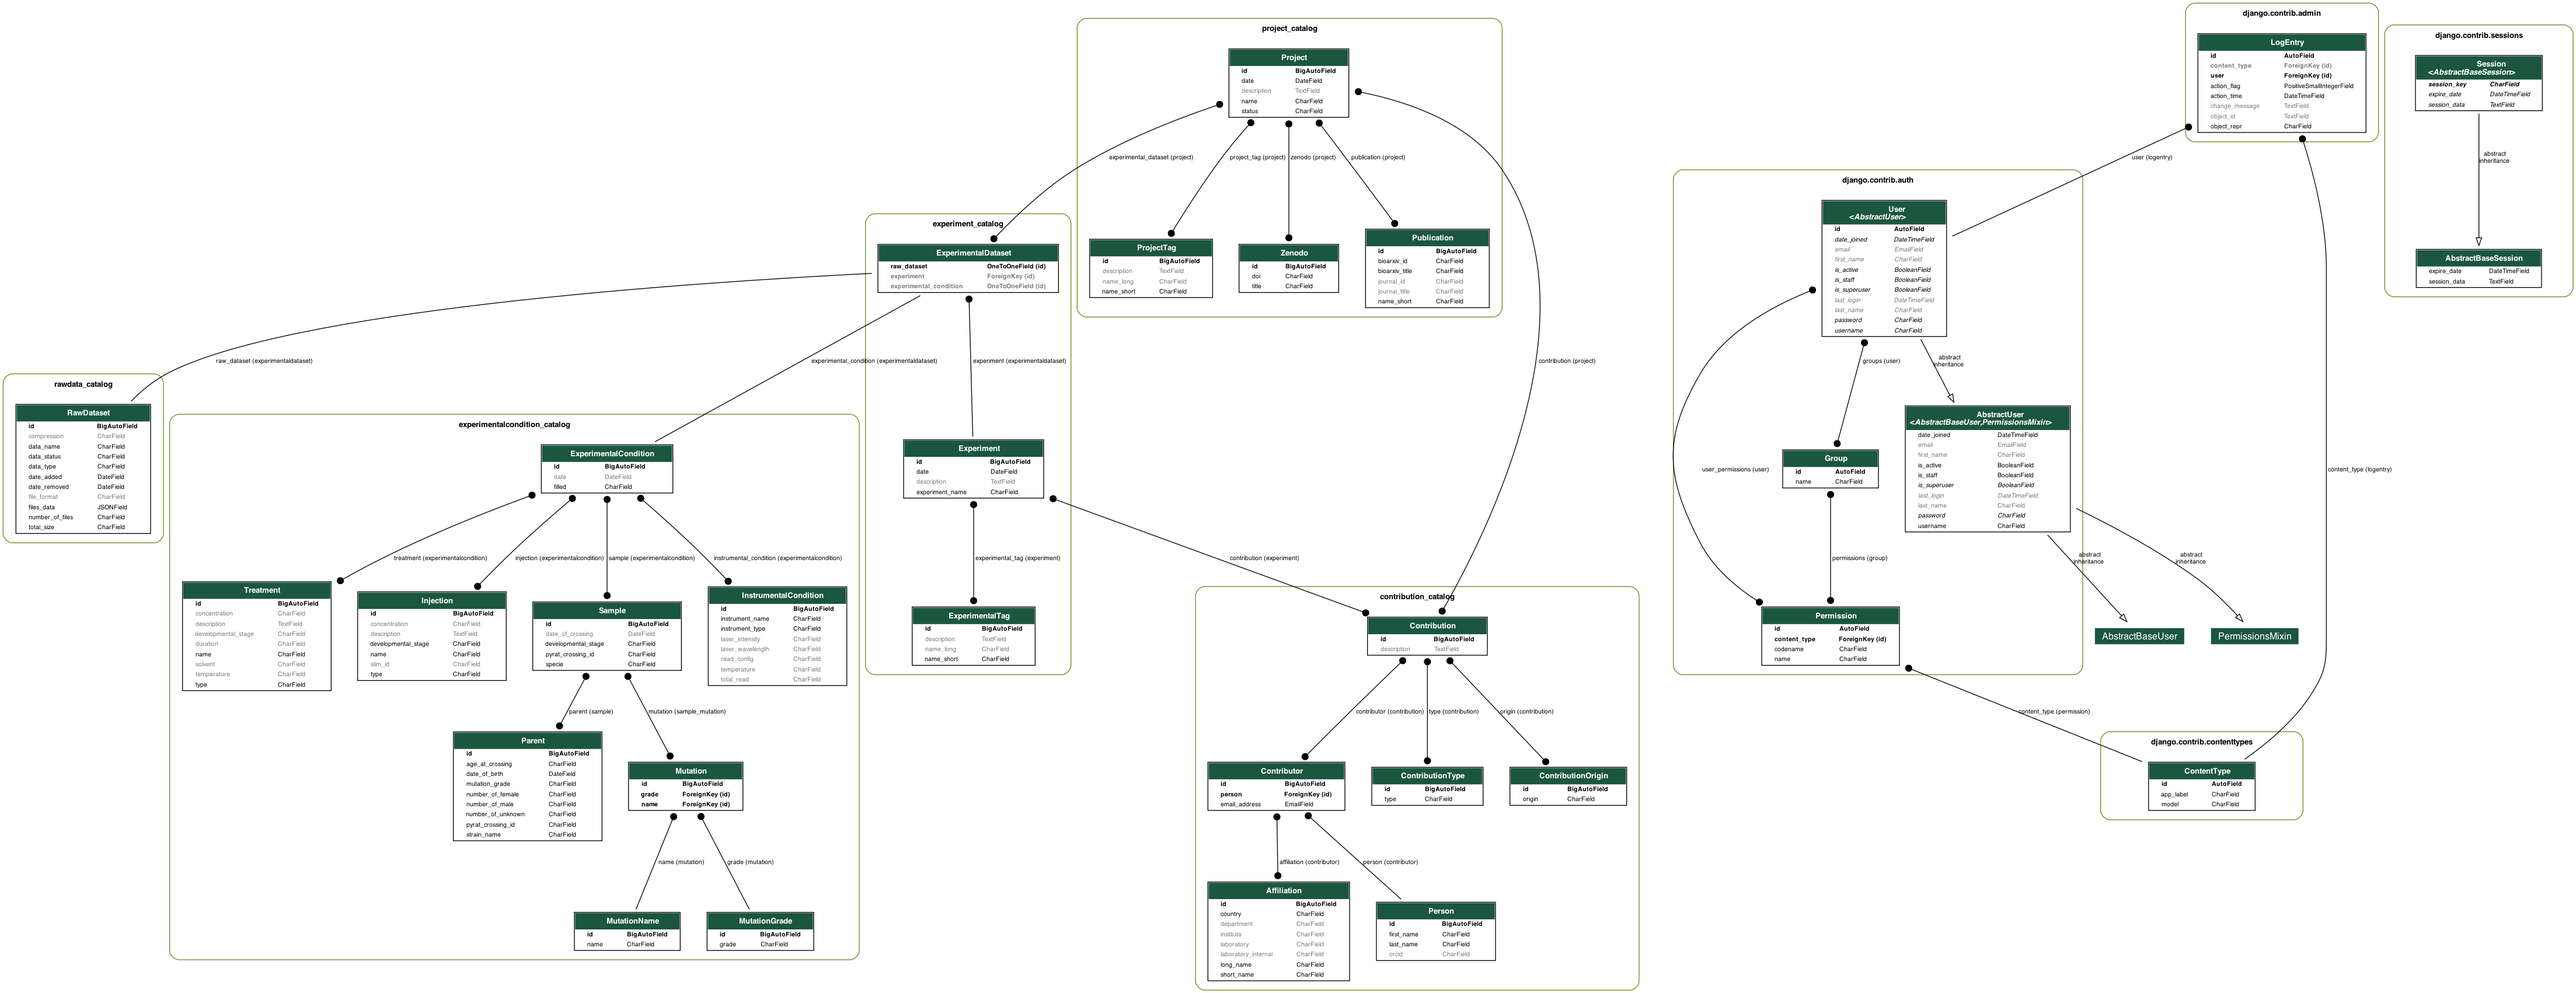
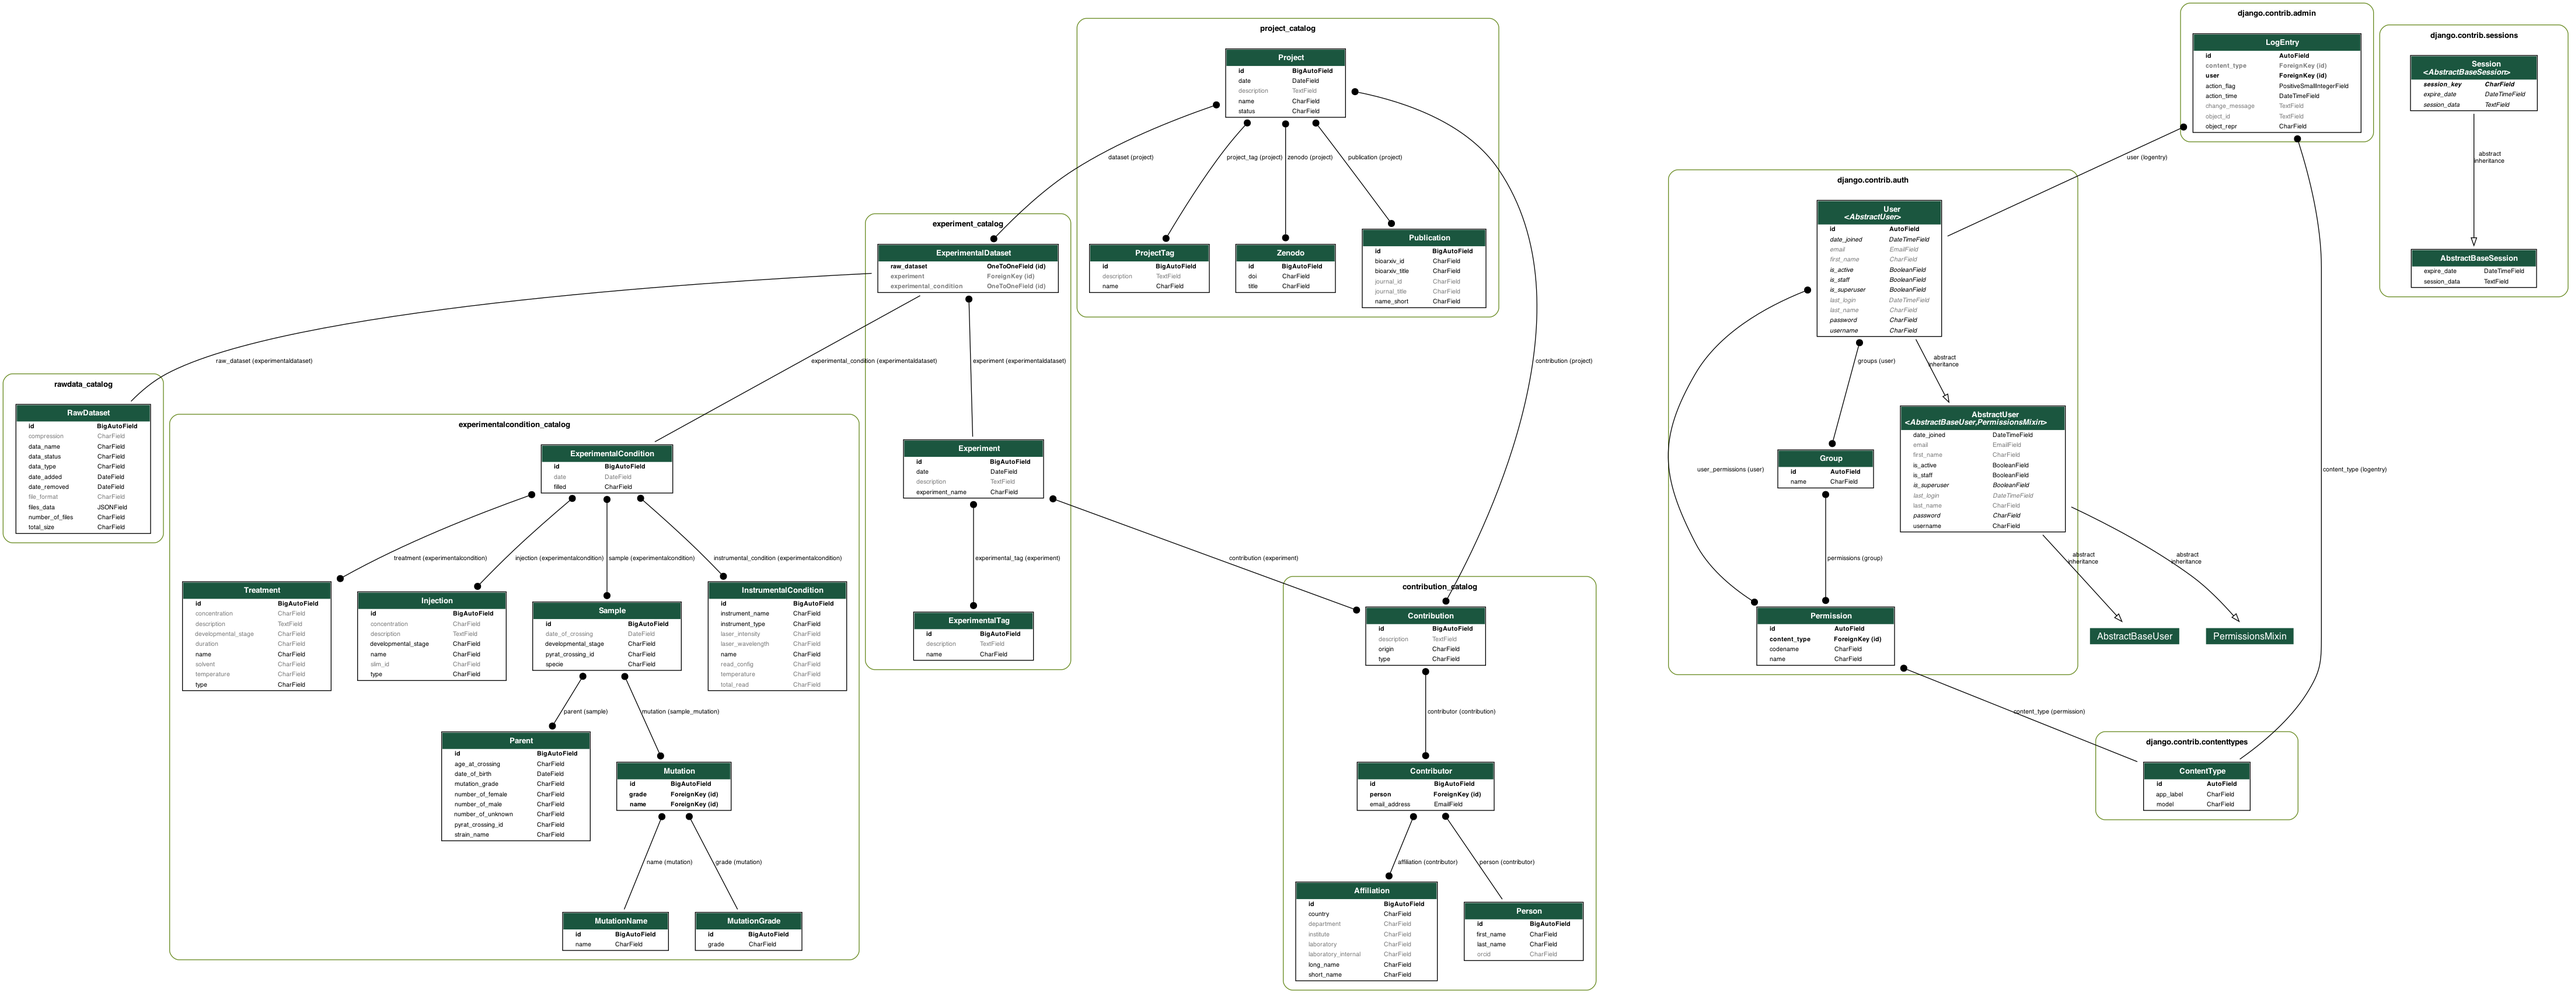
chnage rawdata

diff --git a/templates/project_catalog/project_detail.html b/templates/project_catalog/project_detail.html
@@ -26,7 +26,6 @@
         <strong>contributor: </strong>{{cont.contributor.all|join:", "}} <br/>
         <strong>type: </strong>{{cont.type}} <br/>
         <strong>origin: </strong>{{cont.origin}} <br/>
-        <strong>level: </strong>{{cont.level}} <br/>
         <strong>description: </strong> {{cont.description}} <br/> 
         {% if forloop.counter != experiment.contribution.all|length %} 
             <br/>
@@ -39,19 +38,20 @@
 </div>
 
 <hr>
-
-<h4>RawDataset</h4>
+<h4>RawDataset/Experiment</h4>
 <div style="margin-left:20px;margin-top:0px">
 
 {% for rds in project.dataset.all %}
-<strong>{{forloop.counter}}</strong>  <a href="{{ rds.raw_dataset.get_absolute_url }}">
-  {{ rds.raw_dataset }}</a> <br>
+<strong>{{forloop.counter}}</strong>  RawDataset: <a href="{{ rds.raw_dataset.get_absolute_url }}"> {{ rds.raw_dataset }}</a>  Experiment: <a href="{{ rds.experiment.get_absolute_url }}"> {{ rds.experiment }}</a><br>
+
+ 
+
 {% endfor %}
 </div>
 
 
 
-{% endblock %}
 
+{% endblock %}
 
 

diff --git a/templates/rawdata_catalog/rawdataset_detail.html b/templates/rawdata_catalog/rawdataset_detail.html
@@ -139,16 +139,21 @@
         <strong>Compression:</strong> {{rawdataset.compression}}</br>
     {% endif %}
 
-    <strong>File list</strong>
+    <strong>Raw files list</strong>
 </div>
 
-
-
-
-
-{% for file in rawdataset.files_data.files   %}
+{% for file in rawdataset.raw_files.files   %}
     <div style="margin-left:60px;margin-top:0px">
         <strong>{{ forloop.counter }}{{": "}}</strong>{{file.name}} {{", "}} {{file.size|divide:1000000000  |floatformat:4 }} {{" GB"}}</br>
+    </div>
+{% endfor %}
+
+<div style="margin-left:40px;margin-top:1px">
+    <strong>Other files list</strong>
+</div>
+{% for file in rawdataset.other_files.files   %}
+    <div style="margin-left:60px;margin-top:0px">
+        <strong>{{ forloop.counter }}{{": "}}</strong>{{file.name}} {{", "}} {{file.size|divide:1000000  |floatformat:4 }} {{" MB"}}</br>
     </div>
 {% endfor %}
 

diff --git a/templates/experiment_catalog/experiment_detail.html b/templates/experiment_catalog/experiment_detail.html
@@ -16,7 +16,6 @@
           <strong>contributor: </strong>{{cont.contributor.all|join:", "}} <br/>
           <strong>type: </strong>{{cont.type}} <br/>
           <strong>origin: </strong>{{cont.origin}} <br/>
-          <strong>level: </strong>{{cont.level}} <br/>
           <strong>description: </strong> {{cont.description}} <br/> 
           {% if forloop.counter != experiment.contribution.all|length %} 
               <br/>

diff --git a/rawdata_catalog/views.py b/rawdata_catalog/views.py
@@ -25,7 +25,7 @@ from requests.auth import HTTPBasicAuth
 import accesskeys as accessk
 
 # Create your views here.
-
+DEBUG=False
 #___________________________________________________________________________________________
 def add_mutations(): 
     mutation_name = [
@@ -130,8 +130,6 @@ def add_mutations():
         list_grades_uid.append(grade)
         print('adding mutation grade ',grade)
 
-
-
 #___________________________________________________________________________________________
 def fill_parents():
     
@@ -151,20 +149,20 @@ def fill_parents():
     list_parent_pyrat = [entry for entry in parents] 
     list_parent_pyrat_uid = [e["pyrat_crossing_id"] for e in list_parent_pyrat]
 
-    print('---------------------------pyrat uid ',list_pyrat_uid)
-    print('---------------------------pyrat parent uid ',list_parent_pyrat_uid)
+    if DEBUG: print('---------------------------pyrat uid ',list_pyrat_uid)
+    if DEBUG: print('---------------------------pyrat parent uid ',list_parent_pyrat_uid)
     for xid in list_pyrat_uid:
 
 
-        print('========------------------==================, ',xid)
+        if DEBUG: print('========------------------==================, ',xid)
         if xid in list_parent_pyrat_uid: continue
 
         query = {'tk':['strain_id', 'strain_name', 'strain_name_id','strain_name_with_id','mutations','date_of_birth'],'crossing_id':'{}'.format(str(xid))}
-        print(query)
+        if DEBUG: print(query)
         response = requests.get(api_url_crossings, auth=auth, params=query )
-        print(response)
+        if DEBUG: print(response)
         response_json = response.json()
-        print(response_json)
+        if DEBUG: print(response_json)
 
         sample_with_date = Sample.objects.get(pyrat_crossing_id=xid)
         if sample_with_date.date_of_crossing == '' or sample_with_date.date_of_crossing == None:
@@ -175,15 +173,15 @@ def fill_parents():
   
             d1 = datetime.datetime.strptime(response_json[0]['date_of_record'], "%Y-%m-%d")
             d2 = datetime.datetime.strptime(p["date_of_birth"], "%Y-%m-%d")
-            print('[rewewwerwerwerfwdfegjfhgjuafhgjdafjdk;zjkdjaf;jeakfjEKAfjkeAJf;ieAJfejwfkjZI]      ',d2-d1)
+            if DEBUG: print('[rewewwerwerwerfwdfegjfhgjuafhgjdafjdk;zjkdjaf;jeakfjEKAfjkeAJf;ieAJfejwfkjZI]      ',d2-d1)
             delta = d1 - d2
             
             mutation = ''
-            print('mutation         ----------------------  ',p["mutations"])
+            if DEBUG: print('mutation         ----------------------  ',p["mutations"])
             for m in p["mutations"]:
                 if mutation!='':mutation+=", "
                 mutation+="("+m["mutation_name"]+","+m["mutation_grade_name"]+")"
-            print('mutations        ',mutation)
+            if DEBUG: print('mutations        ',mutation)
             parent = Parent(number_of_male=str(p["number_of_male"]),
                             number_of_female=p["number_of_female"],
                             number_of_unknown=p["number_of_unknown"],
@@ -233,12 +231,11 @@ def index(request):
                  'num_visits': num_visits},
     )
 
-
 #___________________________________________________________________________________________
 def rawdataset_catalog(request):
 
-    print('The visualisation request method is:', request.method)
-    print('The visualisation POST data is:     ', request.POST)
+    if DEBUG: print('The visualisation request method is:', request.method)
+    if DEBUG: print('The visualisation POST data is:     ', request.POST)
 
     #TO BE DONE ONCE AT THE BEGINING
     if 'reload_pyrat' in request.POST:
@@ -246,8 +243,8 @@ def rawdataset_catalog(request):
     if 'reload_mutation' in request.POST:
         add_mutations()
     result = RawDataset.objects.values()
-    print(RawDataset.objects)
-    print('-------------------------------------------',result)
+    if DEBUG: print(RawDataset.objects)
+    if DEBUG: print('-------------------------------------------',result)
     list_result = [entry for entry in result] 
     list_uid=[os.path.join(e["data_type"], e["data_name"]) for e in list_result]
 
@@ -287,12 +284,12 @@ def rawdataset_catalog(request):
                 for f in value["data"]["raw_files"]:
                     tot_size+=int(f["size"])
                 rawds = RawDataset(data_type=os.path.split(newkey)[0], data_name=os.path.split(newkey)[-1], data_status="available",
-                                  number_of_files=n_files, total_size=tot_size,files_data={'files':value["data"]["raw_files"]},
+                                  number_of_files=n_files, total_size=tot_size,raw_files={'files':value["data"]["raw_files"]}, other_files={'other_files':value["data"]["other_files"]},
                                   date_added=value["date"])
                 rawds.save()
 
                 expcond = ExperimentalCondition()
-                print(expcond)
+                if DEBUG: print(expcond)
                 expcond.save()
                 expds = ExperimentalDataset(raw_dataset=rawds, experimental_condition=expcond)
                 expds.save()
@@ -329,13 +326,13 @@ def rawdataset_catalog(request):
                 if m.grade.grade not in search_dict['grade']:
                     search_dict['grade'].append(m.grade.grade)
         for a in d.instrumental_condition.all():
-            print('a-------------- ',a)
+            if DEBUG: print('a-------------- ',a)
             if a.instrument_type not in search_dict["instrument_type"]:
                 search_dict["instrument_type"].append(a.instrument_type)
             if a.instrument_name not in search_dict["instrument_name"]:
                 search_dict["instrument_name"].append(a.instrument_name)
 
-    print('------------------------------------------------  search dict  ',search_dict)
+    if DEBUG: print('------------------------------------------------  search dict  ',search_dict)
     model_data = RawDataset.objects.all()
 
     if request.method=="POST":
@@ -346,7 +343,7 @@ def rawdataset_catalog(request):
         search_devstage=request.POST.get('search_devstage')
         if search_devstage != None:
             model_data = model_data.filter(experimentaldataset__experimental_condition__sample__developmental_stage=search_devstage)
-            print(search_devstage)
+
         search_mutation=request.POST.get('search_mutation')
         if search_mutation != None:
             model_data = model_data.filter(experimentaldataset__experimental_condition__sample__mutation__name__name=search_mutation)
@@ -354,6 +351,7 @@ def rawdataset_catalog(request):
         search_grade=request.POST.get('search_grade')
         if search_grade != None:
             model_data = model_data.filter(experimentaldataset__experimental_condition__sample__mutation__grade__grade=search_grade)
+            model_data=model_data.distinct()
 
         search_instrument_type=request.POST.get('search_instrument_type')
         if search_instrument_type != None:
@@ -363,7 +361,7 @@ def rawdataset_catalog(request):
         if search_instrument_name != None:
             model_data = model_data.filter(experimentaldataset__experimental_condition__instrumental_condition__instrument_name=search_instrument_name)
 
-    print('================================',model_data)
+    print('=this one===============================',model_data)
 
     model_values = model_data.values()
     model_list = [entry for entry in model_values] 

diff --git a/rawdata_catalog/models.py b/rawdata_catalog/models.py
@@ -39,7 +39,8 @@ class RawDataset(models.Model):
     data_status     = models.CharField(max_length=100, choices=DATA_STATUS, default='', help_text='Status of the data on the RCP storage.')
     date_added      = models.DateField(null=True, help_text="Date automatically registered (when pushing the refresh button)")
     date_removed    = models.DateField(null=True, help_text="Date when the rawdataset is removed from RCP")
-    files_data      = models.JSONField(null=True)
+    raw_files       = models.JSONField(null=True)
+    other_files     = models.JSONField(null=True)
     compression     = models.CharField(blank=True, max_length=100, choices=COMPRESSION_TYPE, default='', help_text='Type of compression if any')
     file_format     = models.CharField(blank=True, max_length=100, choices=FILE_FORMAT, default='', help_text='Format of the files')
 
